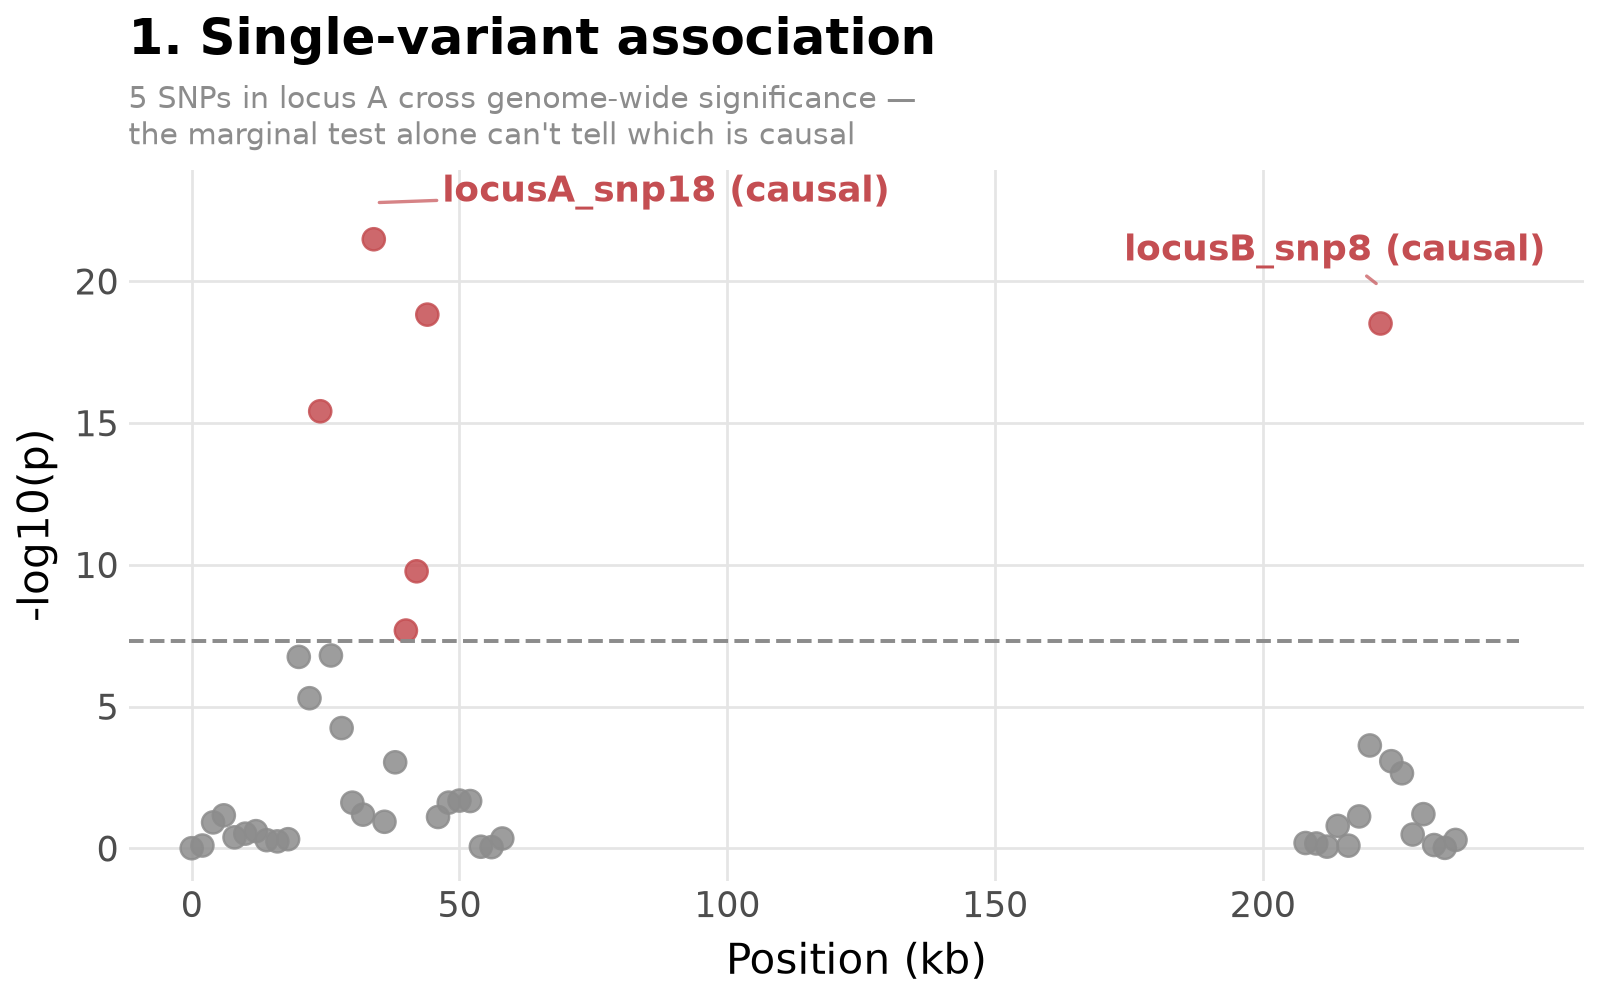
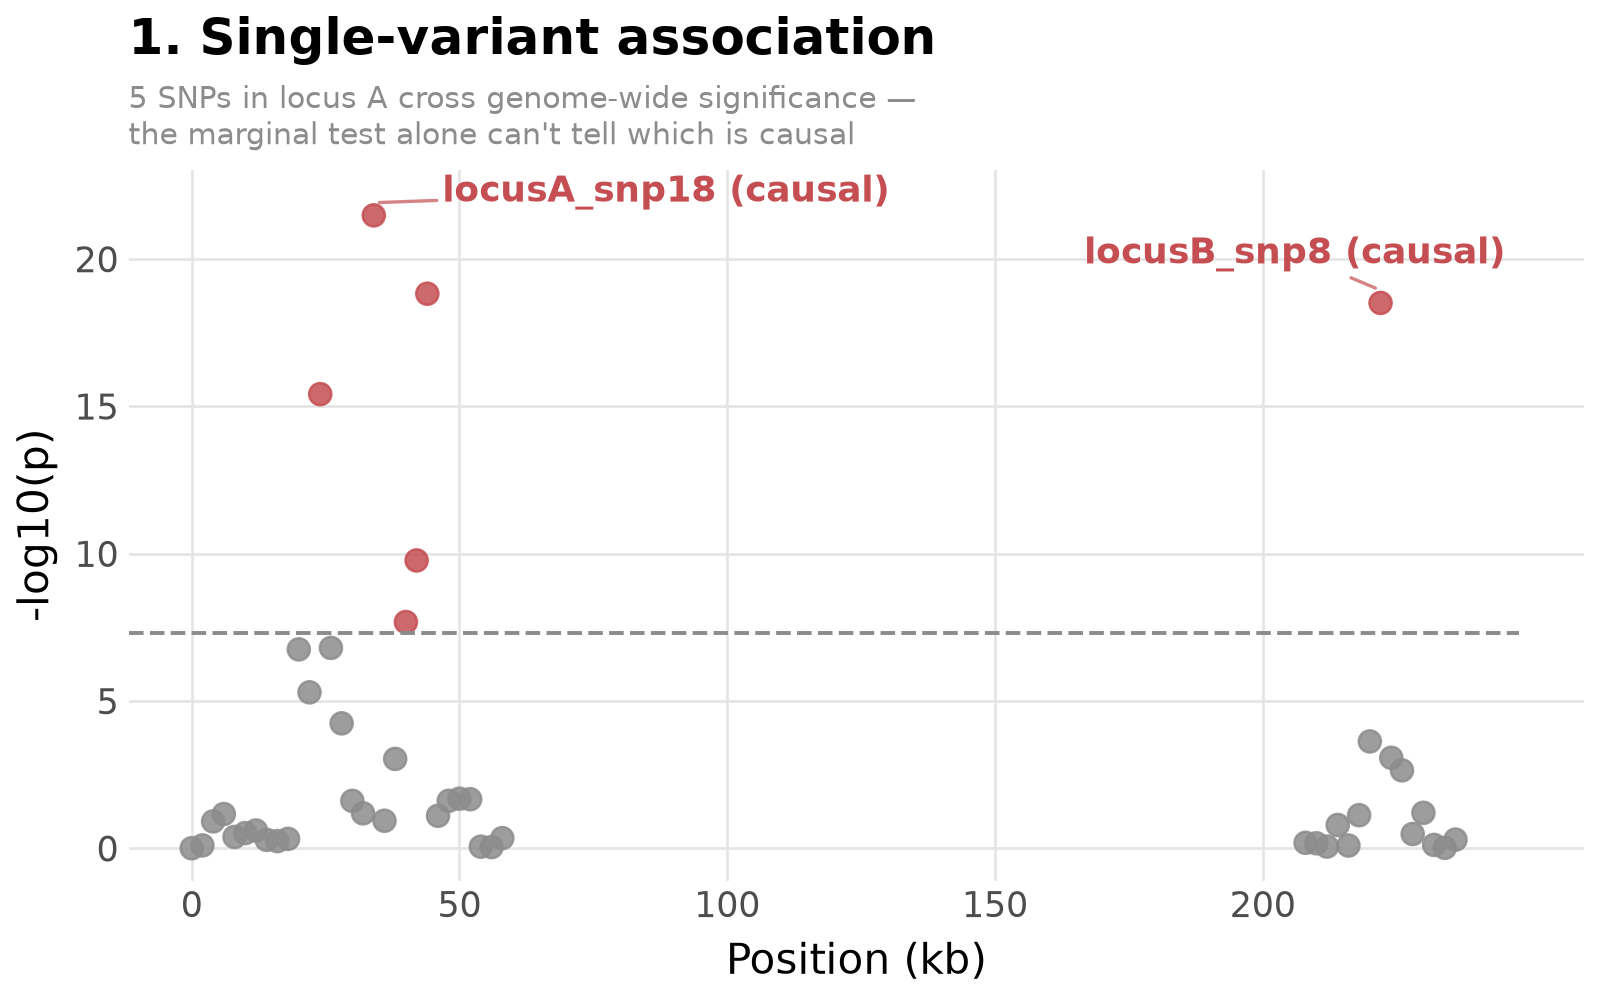
Fix disconnected adjustText leader lines in the GWAS manhattan panel
adjustText's arrow target is the label's pre-adjustment position, not the
x/y anchors passed in (those only drive collision avoidance) -- with a
large nudge_y the leader line pointed back to empty space instead of the
actual marker. Shrinking the nudge to match build_pip_panel's convention
fixes it.

diff --git a/example/scripts/plot_slide1.py b/example/scripts/plot_slide1.py
@@ -168,7 +168,7 @@ def build_gwas_manhattan_panel(df):
             data=labels,
             mapping=aes(x="kb", y="neglog10p", label="label"),
             inherit_aes=False,
-            nudge_y=df.neglog10p.max() * 0.06,
+            nudge_y=df.neglog10p.max() * 0.02,
             size=13,
             color=RED,
             fontweight="bold",
